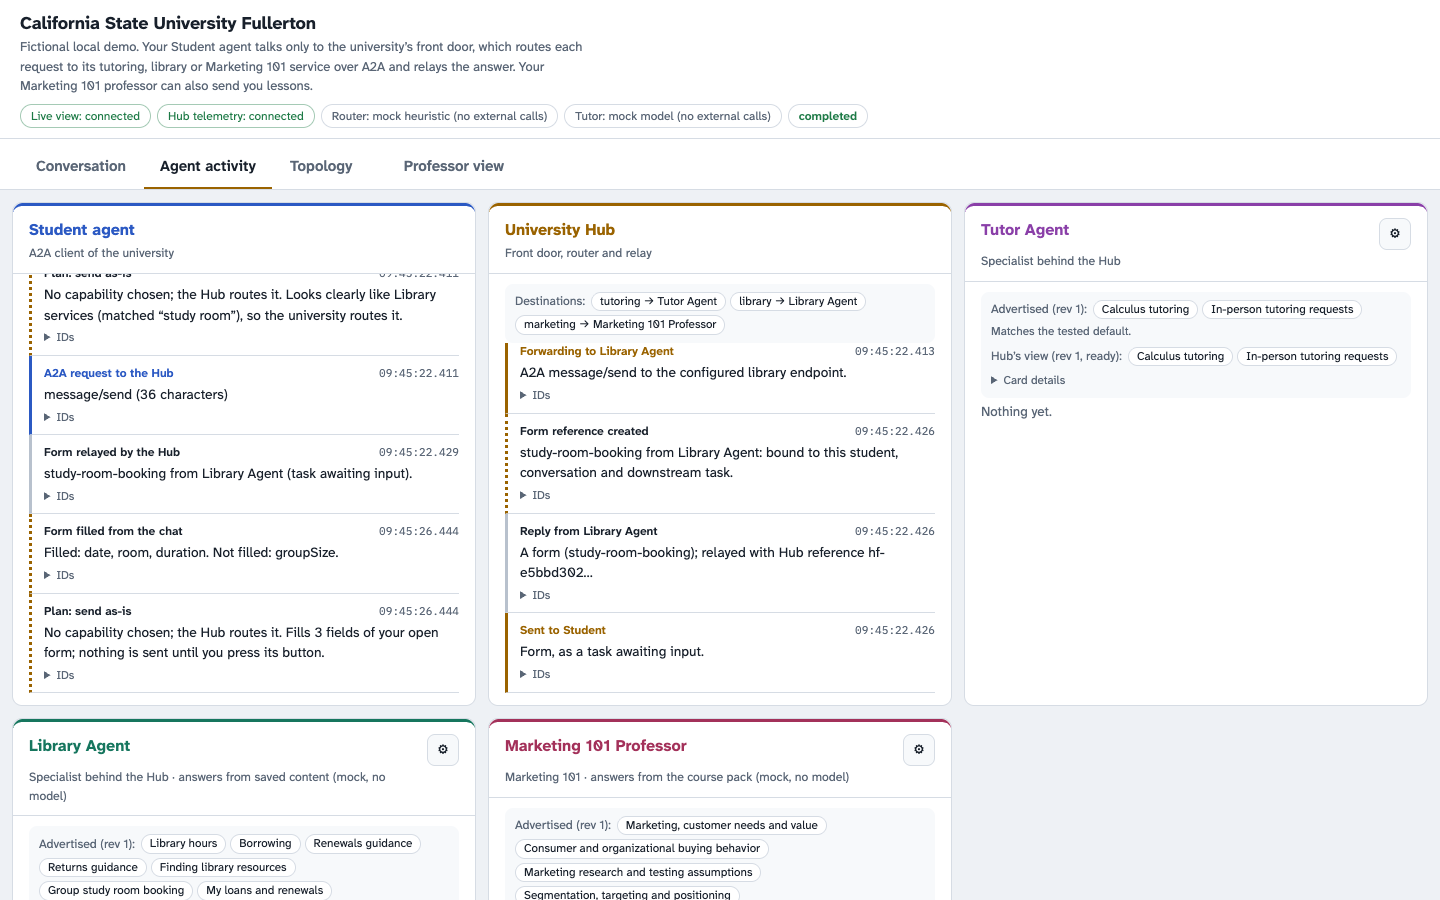
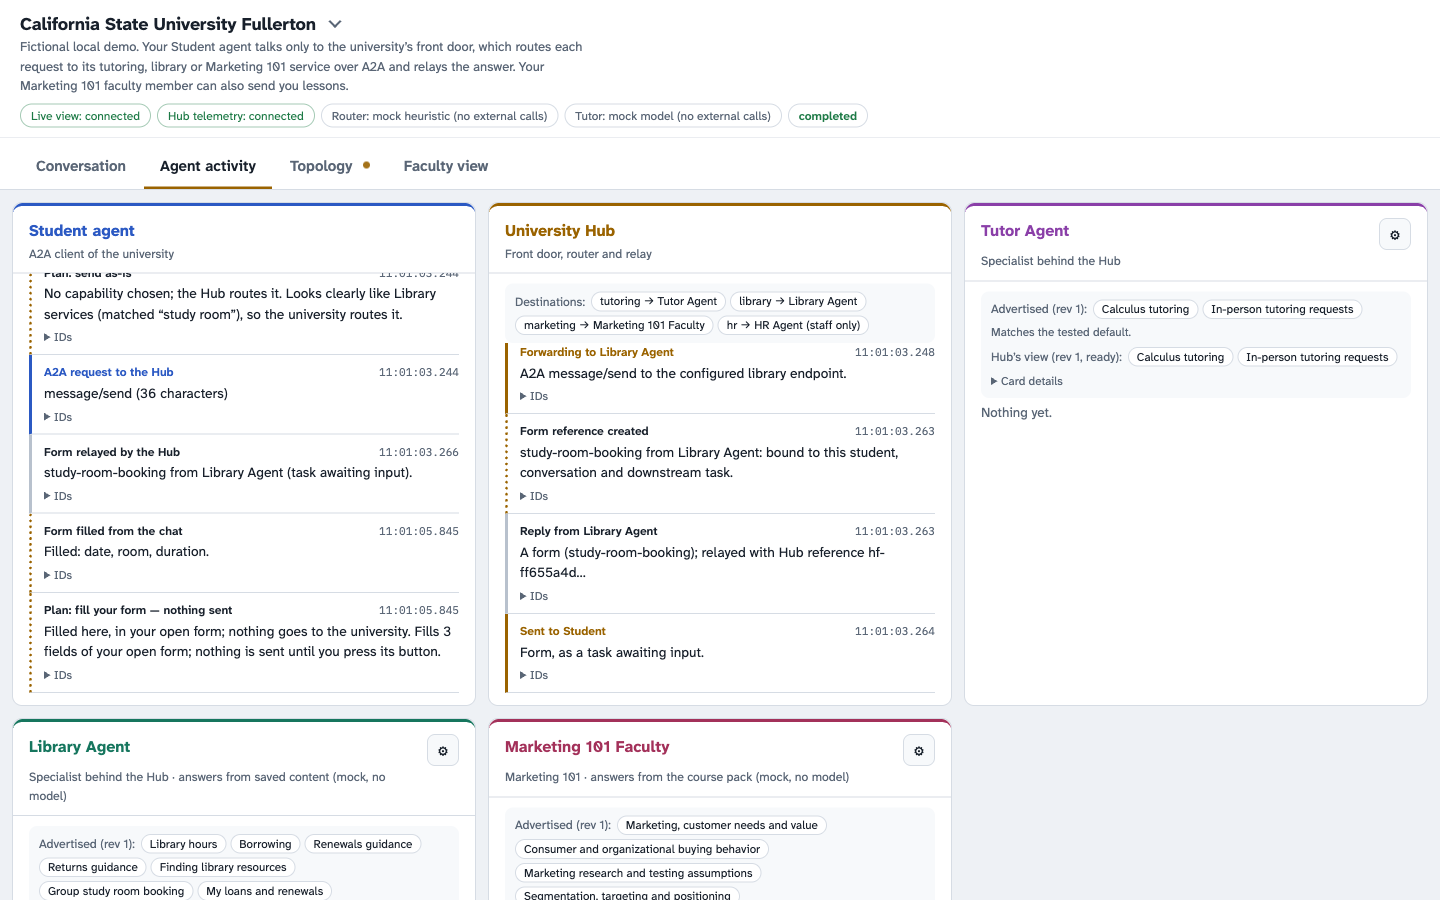
Companion site: retake the Step 7, 9 and 10 screenshots with the Faculty names; fix the hidden about text
The about text (shown only after the arrow next to the university name)
still said “Your Marketing 101 professor”; it now says “faculty member”.
Step 7 (live) and Step 9 (live) were retaken on a rehearsal stack, Step 10
on a mock stack as its caption says. The Step 7 caption now names the HR
Agent and PeopleSoft, which today's Topology shows.

diff --git a/companion-site/public/js/content.js b/companion-site/public/js/content.js
@@ -393,7 +393,7 @@ export const PAGES = [
       { name: 'A2A typed data parts: register / heartbeat / deregister / card-changed', kind: 'format', role: 'this app’s control messages to the Hub, as normal A2A messages' },
       { name: 'Per-agent model choice', kind: 'product', role: 'each agent names its model (Haiku 5.5 default; Sonnet 5.5 and Opus 5.5 allowed); unknown names stop startup' },
     ],
-    shot: S('s7-topology.png', 'The live Topology tab: Student, University Hub, Tutor, Faculty and Library nodes with model boxes and the event list', 'The Topology tab (added in Step 7), shown today with the Faculty agent from Step 9. Pulses appear only for events the agents reported. Test stack.'),
+    shot: S('s7-topology.png', 'The live Topology tab: Student, University Hub, Tutor, Library, Faculty and HR Agent nodes with model boxes, PeopleSoft below HR, and the event list', 'The Topology tab (added in Step 7), shown today with the Faculty agent from Step 9 and the HR Agent and PeopleSoft from Steps 14 and 15. Pulses appear only for events the agents reported. Test stack.'),
     sources: ['`Steps/07-university-hub-topology.md`', '`src/hub-agent.js`, `src/hub-registry.js`, `src/hub-link.js`, `src/student-assistant.js`, `src/topology.js`', '`test/hub.test.js`, `test/student-model.test.js`', 'Commits cfb7040, ecb79af, 520b83a, 283c4fb'],
   },
   {

diff --git a/public/index.html b/public/index.html
@@ -15,7 +15,7 @@
         <h1 id="university-name">California State University Fullerton</h1>
         <button type="button" class="about-toggle" id="about-toggle" aria-expanded="false" aria-controls="about-text" title="Show the description"><span class="visually-hidden">Description</span></button>
       </div>
-      <p class="subtitle" id="about-text" hidden>Fictional local demo. Your Student agent talks only to the university’s front door, which routes each request to its tutoring, library or Marketing 101 service over A2A and relays the answer. Your Marketing 101 professor can also send you lessons.</p>
+      <p class="subtitle" id="about-text" hidden>Fictional local demo. Your Student agent talks only to the university’s front door, which routes each request to its tutoring, library or Marketing 101 service over A2A and relays the answer. Your Marketing 101 faculty member can also send you lessons.</p>
     </div>
     <div class="badges" aria-label="Connections and modes">
       <span class="badge" id="browser-feed" data-ok="false">Live view: connecting</span>
